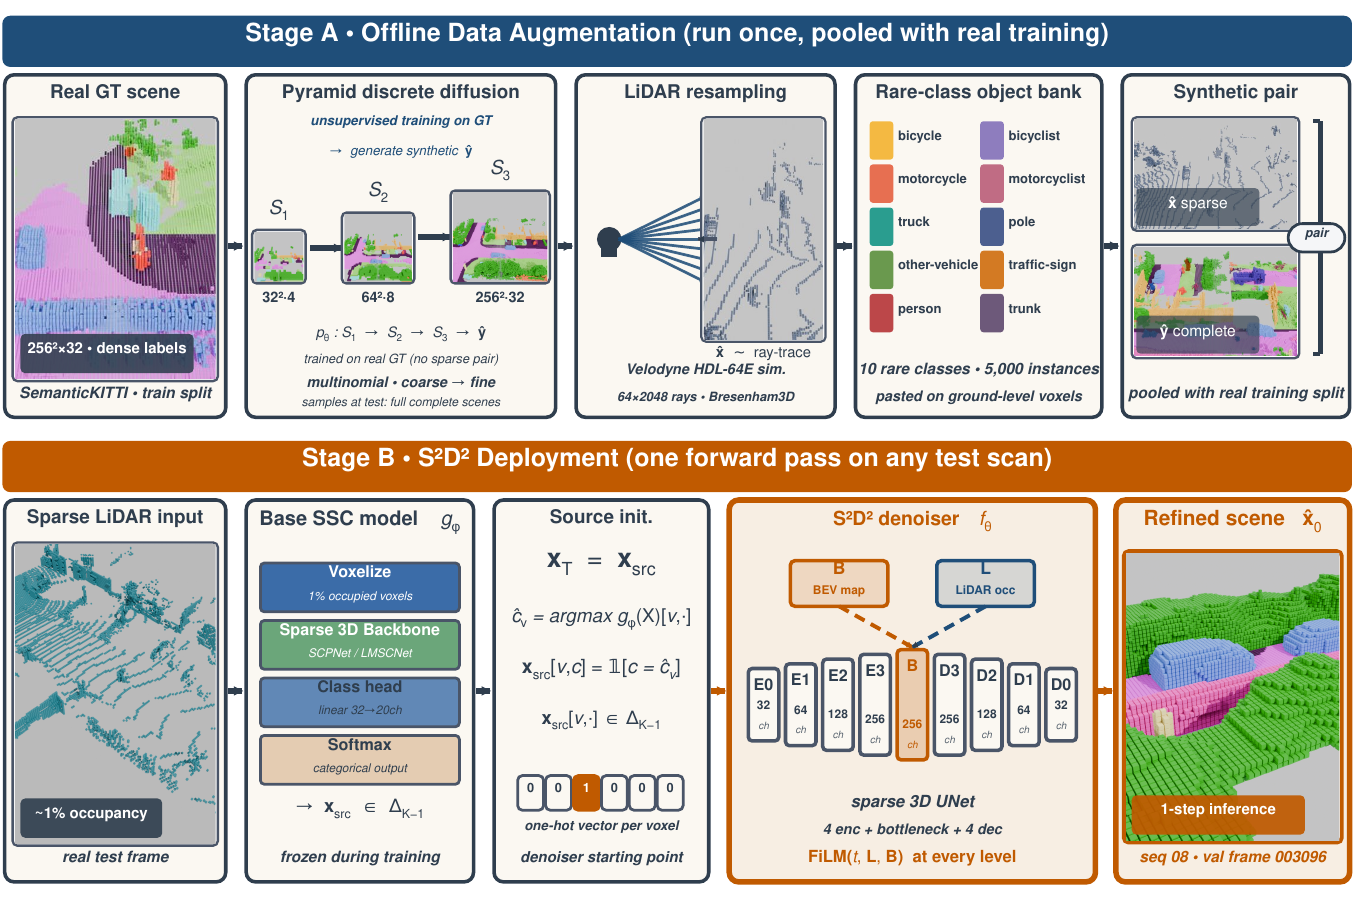
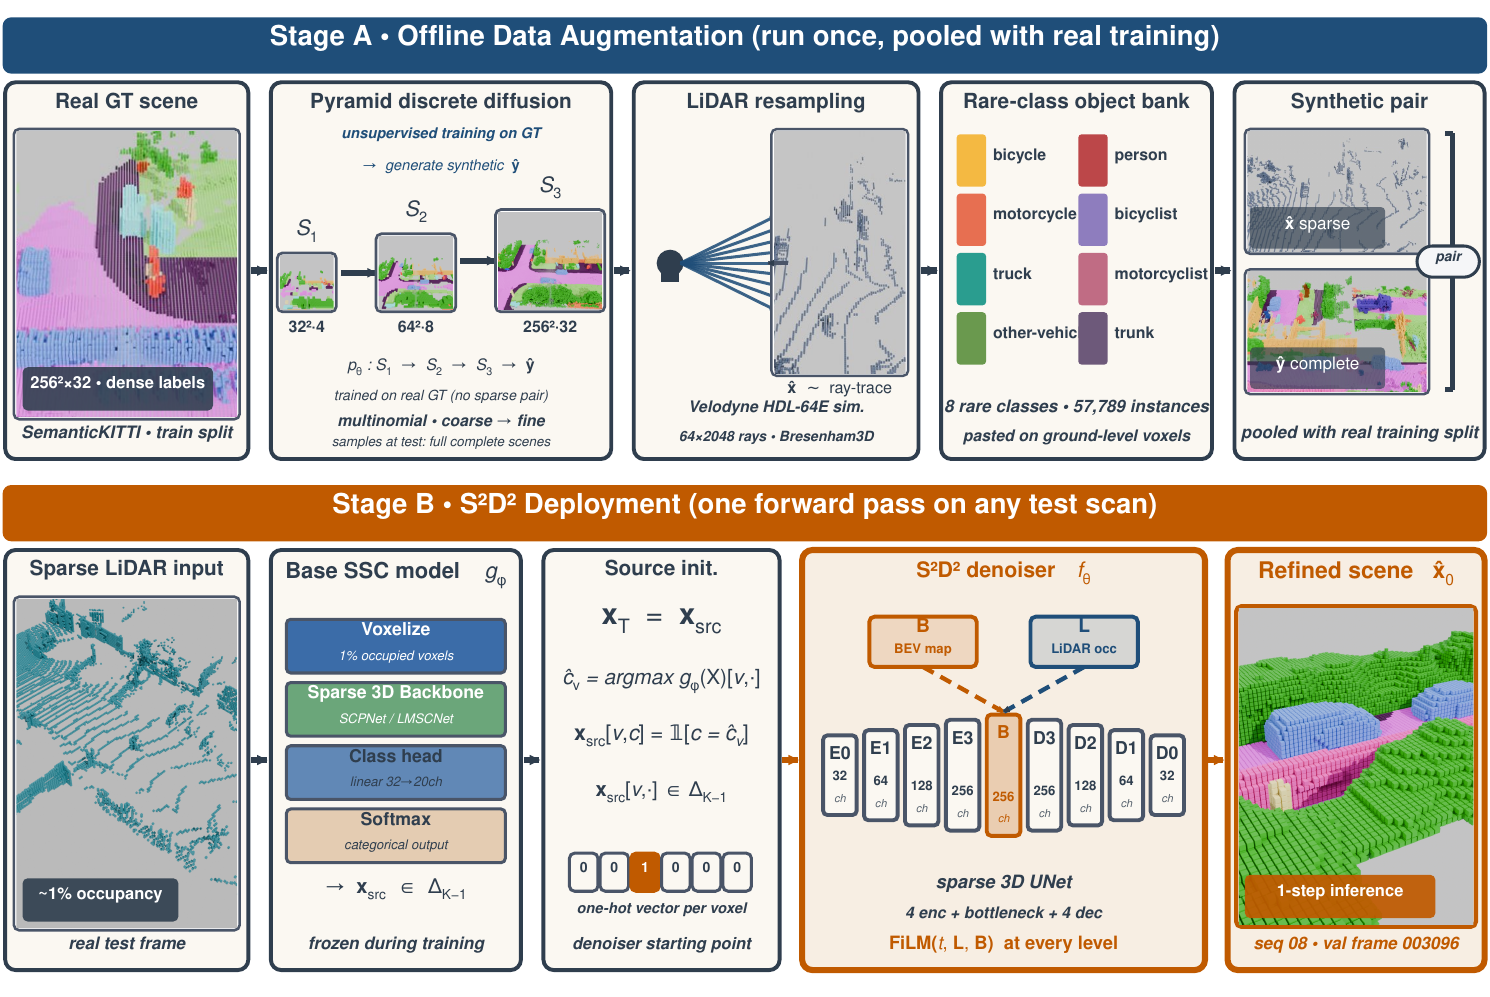
Revert object-bank claim 5,000 / 10 -> 57,789 / 8 to match training truth
Generation logs (datasets/SemanticKITTI_3D/256/synthetic_worker_*/
generation.log + datasets/SemanticKITTI_3D/256/augmented_v2/
generation.log) confirm the headline 31K-MF synthetic pool was
generated with datasets/object_bank_3d/ — 57,789 instances across
8 classes (bicycle, motorcycle, truck, other-vehicle, person,
bicyclist, motorcyclist, trunk).

Earlier today I propagated 5,000 / 10 (the OTHER bank on disk,
datasets/object_bank.pkl/) into the README based on a stale Fig 2
PDF. That bank was NOT used for the trained model. Reverting:

- Stage A figure caption: 5,000 / 10 -> 57,789 / 8 with explicit
  class list.
- 'How it works' (line 269): same.
- Asset releases table (line 281): 5,000 instances / 10 classes ->
  57,789 instances / 8 classes.

assets/teaser.png re-rendered from the new fig2_pipeline_v2.pdf
(generated by tools/fig2_draw.py with pole + traffic-sign chips
removed and the chip grid rebalanced). assets/fig2_pipeline_v2.pdf
also updated.

diff --git a/README.md b/README.md
@@ -42,7 +42,7 @@
   <img src="assets/teaser.png" width="92%" alt="GSSC-S2D2 two-stage pipeline: offline data augmentation + S²D² one-step deployment" />
 </p>
 
-<sub><b>Stage A</b> (top) — offline data augmentation: pyramid multinomial diffusion (𝒮₁ → 𝒮₂ → 𝒮₃ at 32²×4 → 64²×8 → 256²×32) synthesises complete scenes; an HDL-64E Bresenham3D ray-tracer (64×2048 rays) converts each into a matching sparse input; a balanced 5,000-instance / 10-rare-class object bank pastes rare classes on ground-level voxels. The synthetic pairs are pooled with the real SemanticKITTI training split. <b>Stage B</b> (bottom) — at deployment, a real sparse LiDAR scan is voxelized through a frozen base SSC model <i>g</i><sub>φ</sub> (e.g. SCPNet, LMSCNet) to produce <b>x</b><sub>src</sub>, then refined by <i>f</i><sub>θ</sub> — a sparse 3D U-Net with FiLM(<i>t</i>, <b>L</b>, <b>B</b>) at every level — into <b>x̂</b><sub>0</sub> in one forward pass with EMA weights. No distillation. Source: paper Fig. 2.</sub>
+<sub><b>Stage A</b> (top) — offline data augmentation: pyramid multinomial diffusion (𝒮₁ → 𝒮₂ → 𝒮₃ at 32²×4 → 64²×8 → 256²×32) synthesises complete scenes; an HDL-64E Bresenham3D ray-tracer (64×2048 rays) converts each into a matching sparse input; a 57,789-instance / 8-rare-class object bank (bicycle, motorcycle, truck, other-vehicle, person, bicyclist, motorcyclist, trunk) pastes rare classes on ground-level voxels. The synthetic pairs are pooled with the real SemanticKITTI training split. <b>Stage B</b> (bottom) — at deployment, a real sparse LiDAR scan is voxelized through a frozen base SSC model <i>g</i><sub>φ</sub> (e.g. SCPNet, LMSCNet) to produce <b>x</b><sub>src</sub>, then refined by <i>f</i><sub>θ</sub> — a sparse 3D U-Net with FiLM(<i>t</i>, <b>L</b>, <b>B</b>) at every level — into <b>x̂</b><sub>0</sub> in one forward pass with EMA weights. No distillation. Source: paper Fig. 2.</sub>
 
 **Why it works.** Pure-noise diffusion wastes capacity learning to invert random corruption. By starting from the base model's *structured* prediction **x**<sub>src</sub> rather than *x*<sub>T</sub> ∼ π, the network only has to learn the **residual** between **x**<sub>src</sub> and ground truth — a much smaller chunk of probability mass to transport. One correction step suffices for the headline 38.54 % val mIoU; four steps + *D*<sub>4</sub> TTA push to **39.2 % test**.
 
@@ -266,7 +266,7 @@ Pinned versions in `uv.lock`. See [docs/REPRODUCIBILITY.md](docs/REPRODUCIBILITY
 
 1. **Structured source.** Replace the noise endpoint with a learned base model's prediction $x_{\text{src}}$. The forward process becomes the Dirac mixture $x_t = \bar\alpha_t \cdot x_0 + (1 - \bar\alpha_t) \cdot x_{\text{src}}$, a deterministic interpolant between ground truth and $x_{\text{src}}$.
 2. **S²D² correction sampling.** A non-noise deterministic reverse process (we specialise the non-noise correction sampler of Cold Diffusion, Bansal et al. 2022, to our linear simplex interpolant) that routes the full residual $\hat{\mathbf{x}}_0 - \mathbf{x}_{\text{src}}$ directly per step. At $N = 1$, the iterate at $t = T$ coincides with $\mathbf{x}_{\text{src}}$, giving a Lipschitz-free single-step bound (App. A.5 in the paper).
-3. **Pyramid diffusion data augmentation.** A coarse-to-fine pyramid ($32^2{\times}4$ → $64^2{\times}8$ → $256^2{\times}32$) generates synthetic $(\text{sparse}, \text{complete})$ pairs. Combined with HDL-64E Bresenham3D ray-tracing and a balanced 5,000-instance / 10-rare-class object bank (500 per class), this yields the 31 K-scene synthetic pool used by the headline configuration.
+3. **Pyramid diffusion data augmentation.** A coarse-to-fine pyramid ($32^2{\times}4$ → $64^2{\times}8$ → $256^2{\times}32$) generates synthetic $(\text{sparse}, \text{complete})$ pairs. Combined with HDL-64E Bresenham3D ray-tracing and a 57,789-instance / 8-rare-class object bank (bicycle, motorcycle, truck, other-vehicle, person, bicyclist, motorcyclist, trunk), this yields the 31 K-scene synthetic pool used by the headline configuration.
 
 The mathematical derivations are in App. A of the paper (`prop:forward`, `prop:posterior`, `prop:elbo`, `prop:fm`, `prop:meanflow`, `thm:error`, `cor:onestep`, `cor:lipprop`, `prop:proj`).
 
@@ -278,7 +278,7 @@ The mathematical derivations are in App. A of the paper (`prop:forward`, `prop:p
 |---|---|---|
 | Pretrained checkpoints (~14 files) | [HF: gssc-s2d2/checkpoints](`[CHECKPOINTS_URL]`) | 3 GB |
 | SCPNet val + test predictions | [HF: gssc-s2d2/scpnet_predictions](`[SCPNET_PREDICTIONS_URL]`) | 50 GB |
-| Object bank (5,000 instances, 10 rare classes, 500 per class) | [HF: gssc-s2d2/object_bank](`[OBJECT_BANK_URL]`) | 448 MB |
+| Object bank (57,789 instances, 8 rare classes) | [HF: gssc-s2d2/object_bank](`[OBJECT_BANK_URL]`) | 448 MB |
 | Synthetic pool (0K / 10K / 20K / 31K / 57K) | [IEEE DataPort](`[SYNTHETIC_POOL_URL]`) | 120 – 220 GB per variant |
 
 All weights and synthetic data are released under Apache-2.0; SemanticKITTI raw data follows its own license (see [semantic-kitti.org](http://www.semantic-kitti.org/)).
